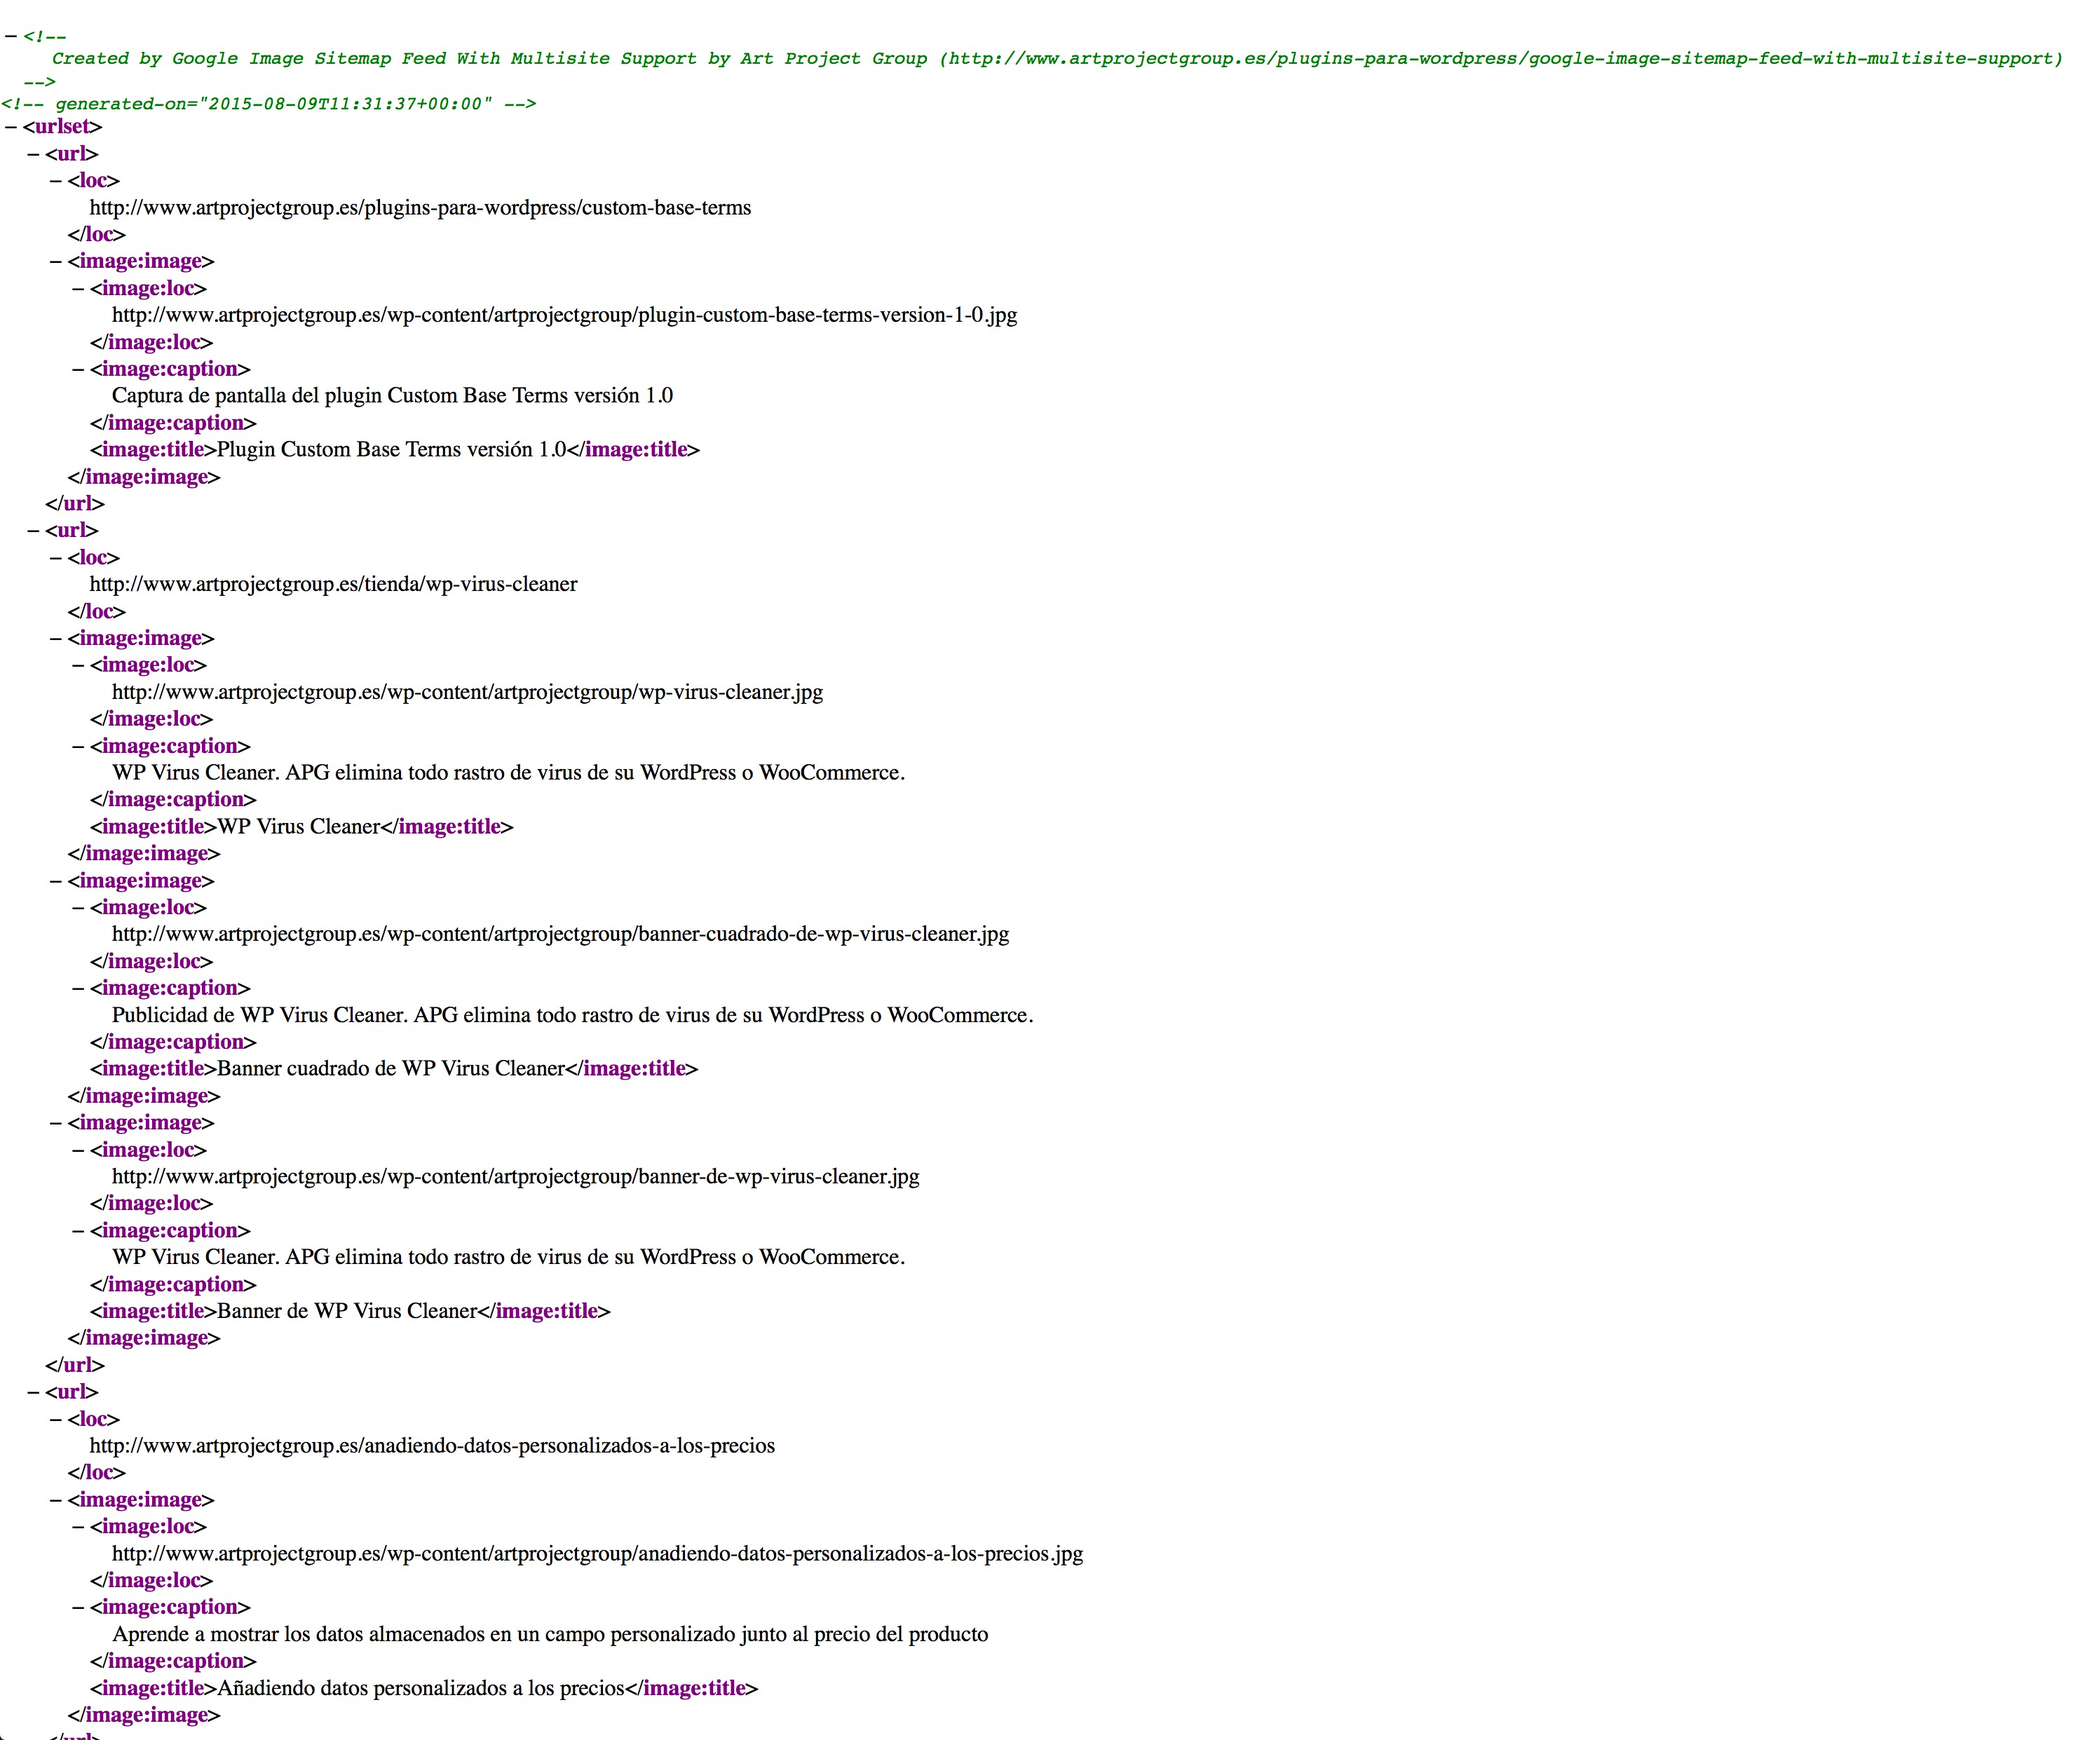
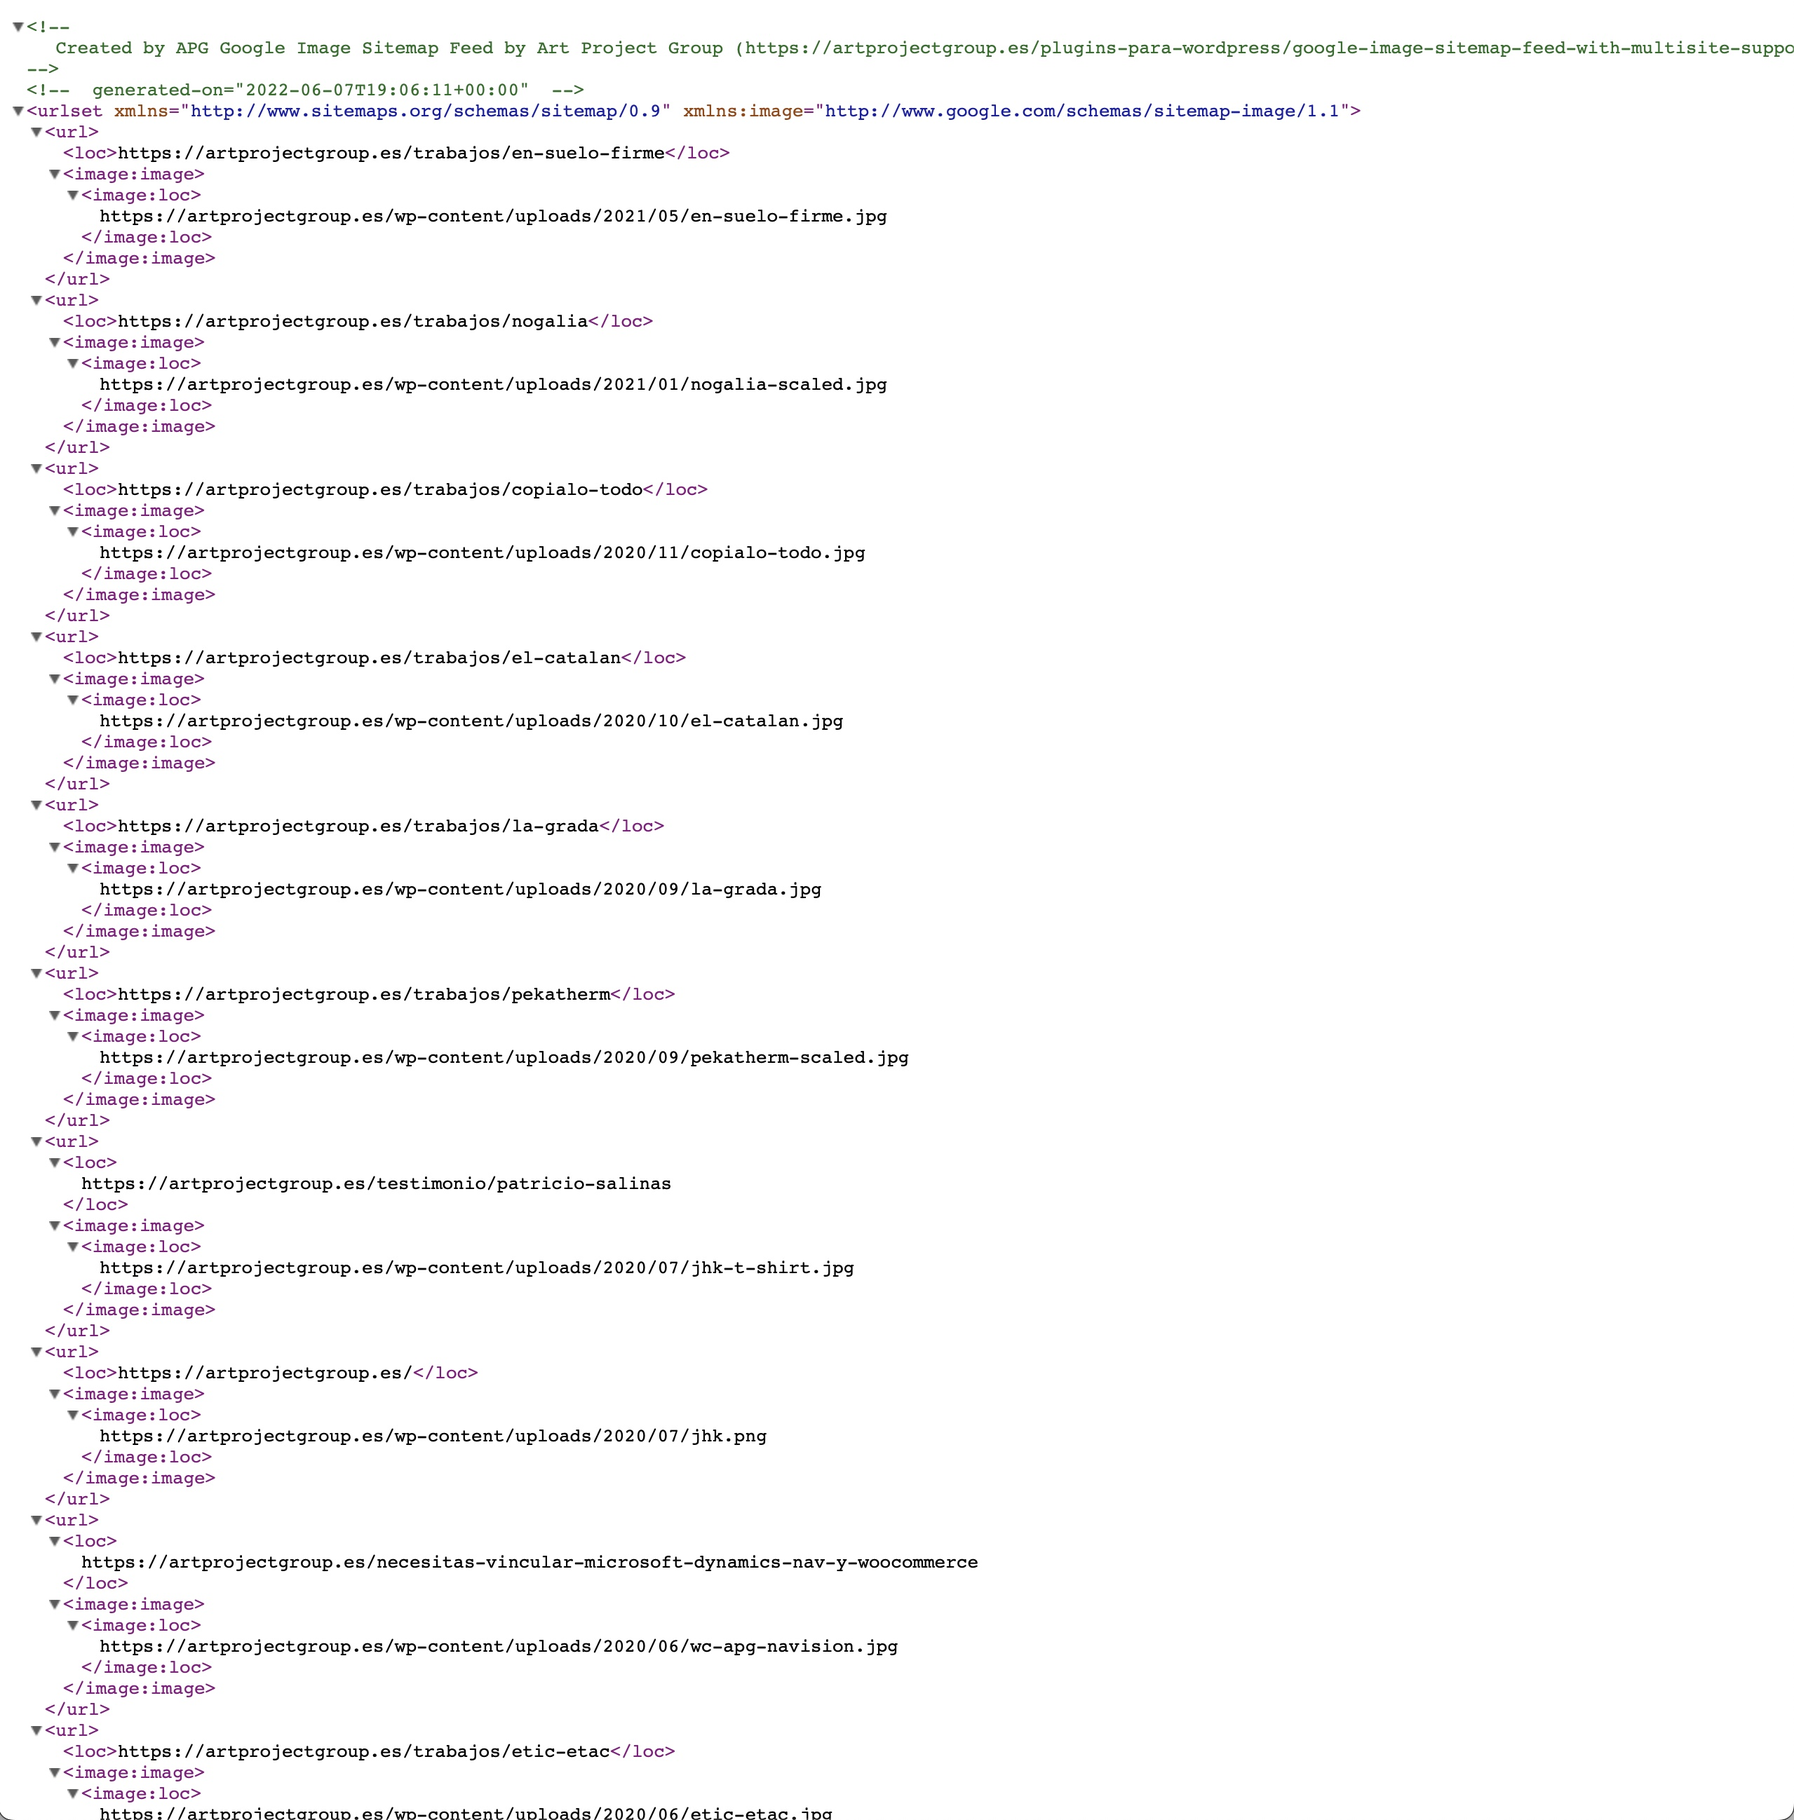
Versión 2.0

Changed region(s): [[0.0, 0.0, 0.9883, 1.0], [0.9883, 0.9927, 1.0, 1.0], [0.9883, 0.0, 1.0, 0.031]]

diff --git a/includes/admin/clases/contenido-xml.php b/includes/admin/clases/contenido-xml.php
@@ -40,7 +40,7 @@ function sitemap_image_html_entity( $data ) {
 //Obtiene el listado de todas las imágenes
 $imagenes   = get_transient( 'xml_sitemap_image' );
 if ( $imagenes === false ) {
-    $imagenes = $wpdb->get_results( "SELECT P1.ID, P1.post_title, P1.post_excerpt, P1.post_content, P1.post_parent FROM $wpdb->posts P1 LEFT JOIN $wpdb->posts P2 ON P1.post_parent = P2.ID WHERE P1.post_type = 'attachment' AND P1.post_mime_type like 'image%' AND P1.post_parent > 0 and P2.post_status = 'publish' ORDER BY P1.post_date desc" ); //Consulta
+    $imagenes = $wpdb->get_results( "SELECT P1.ID, P1.post_parent FROM $wpdb->posts P1 LEFT JOIN $wpdb->posts P2 ON P1.post_parent = P2.ID WHERE P1.post_type = 'attachment' AND P1.post_mime_type like 'image%' AND P1.post_parent > 0 and P2.post_status = 'publish' ORDER BY P1.post_date desc" ); //Consulta
     set_transient( 'xml_sitemap_image', $imagenes, 30 * DAY_IN_SECONDS );
     APGSitemapImage::desactivar();
 }
